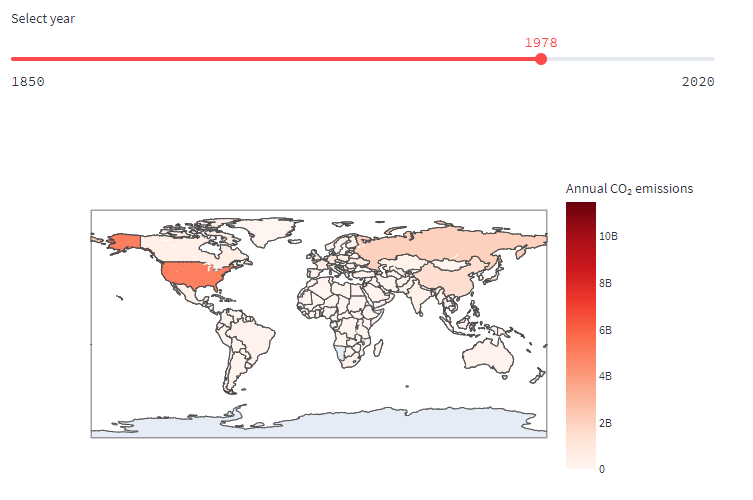
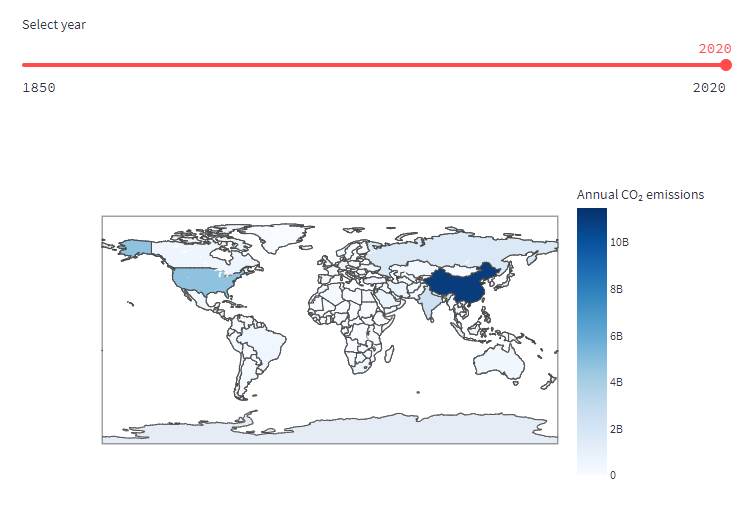
update

diff --git a/code/ui.py b/code/ui.py
@@ -39,5 +39,5 @@ fig = px.choropleth(df_countries[df_countries['Year']==year], locations="Code",
                     color="Annual CO₂ emissions",
                     hover_name="Entity",
                     range_color=(0,max),
-                    color_continuous_scale=px.colors.sequential.Reds)
+                    color_continuous_scale=px.colors.sequential.Blues)
 st.plotly_chart(fig, use_container_width=True)

diff --git a/StreamlitFromScratch4.md b/StreamlitFromScratch4.md
@@ -103,12 +103,17 @@ We are going to use the year value in a Plotly choropleth which wil gives us a f
 
 ![](https://github.com/alanjones2/streamlitfromscratch/raw/main/images/choropleth.png)
 
+The detail of this figure is a little difficult to see but if you use the expander control (which exanps the image to fullscreen) and/or the zoom facility individual countries can be easily seen.
+
+
+
 ```` Python
 max = df_countries['Annual CO₂ emissions'].max()
 
 year = st.slider('Select year',1850,2020)
 
-fig = px.choropleth(df_countries[df_countries['Year']==year], locations="Code",
+fig = px.choropleth(df_countries[df_countries['Year']==year],
+                    locations="Code",
                     color="Annual CO₂ emissions",
                     hover_name="Entity",
                     range_color=(0,max),
